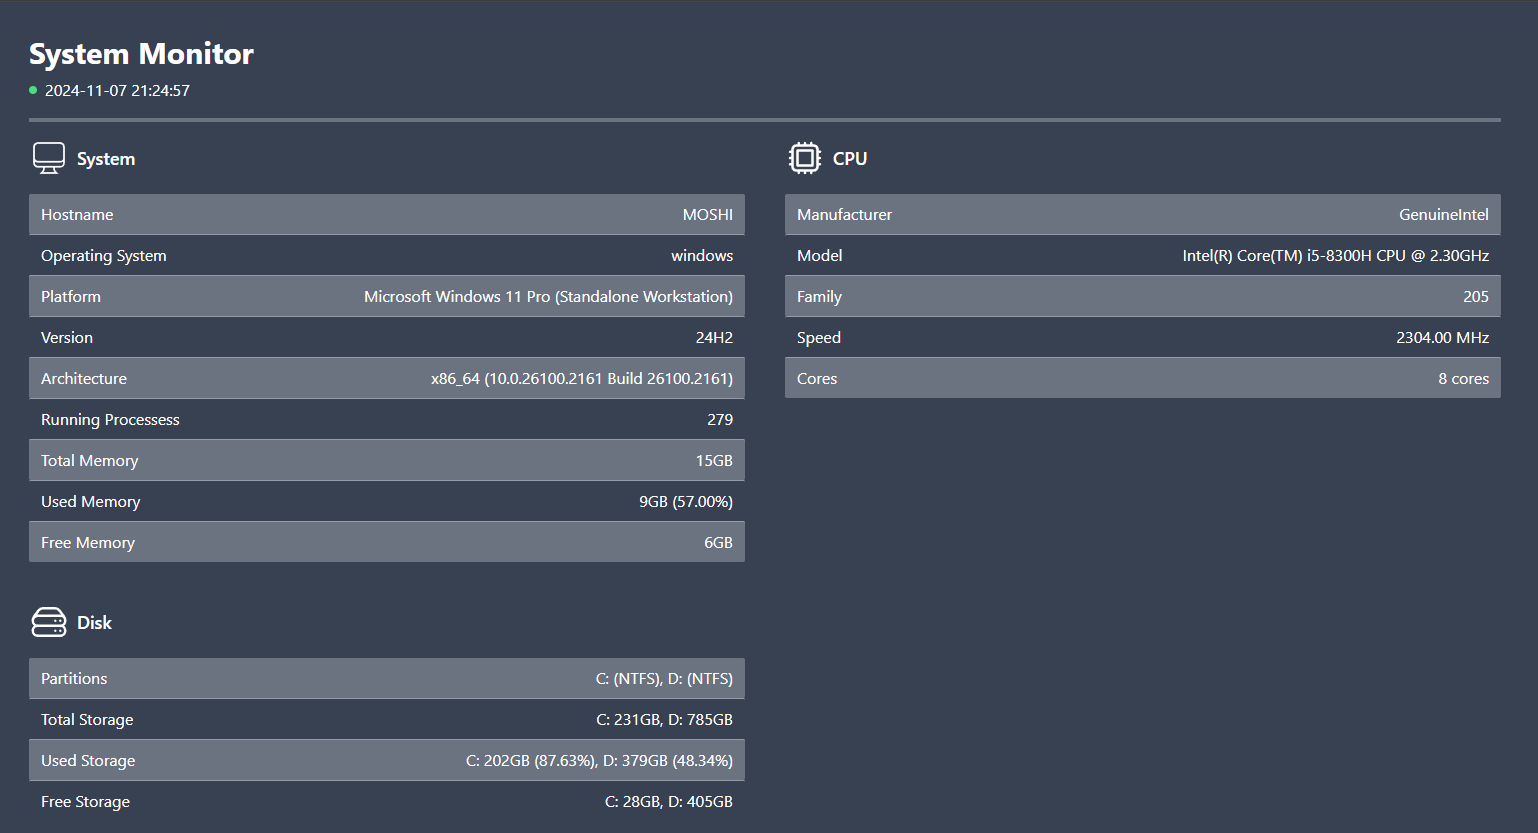
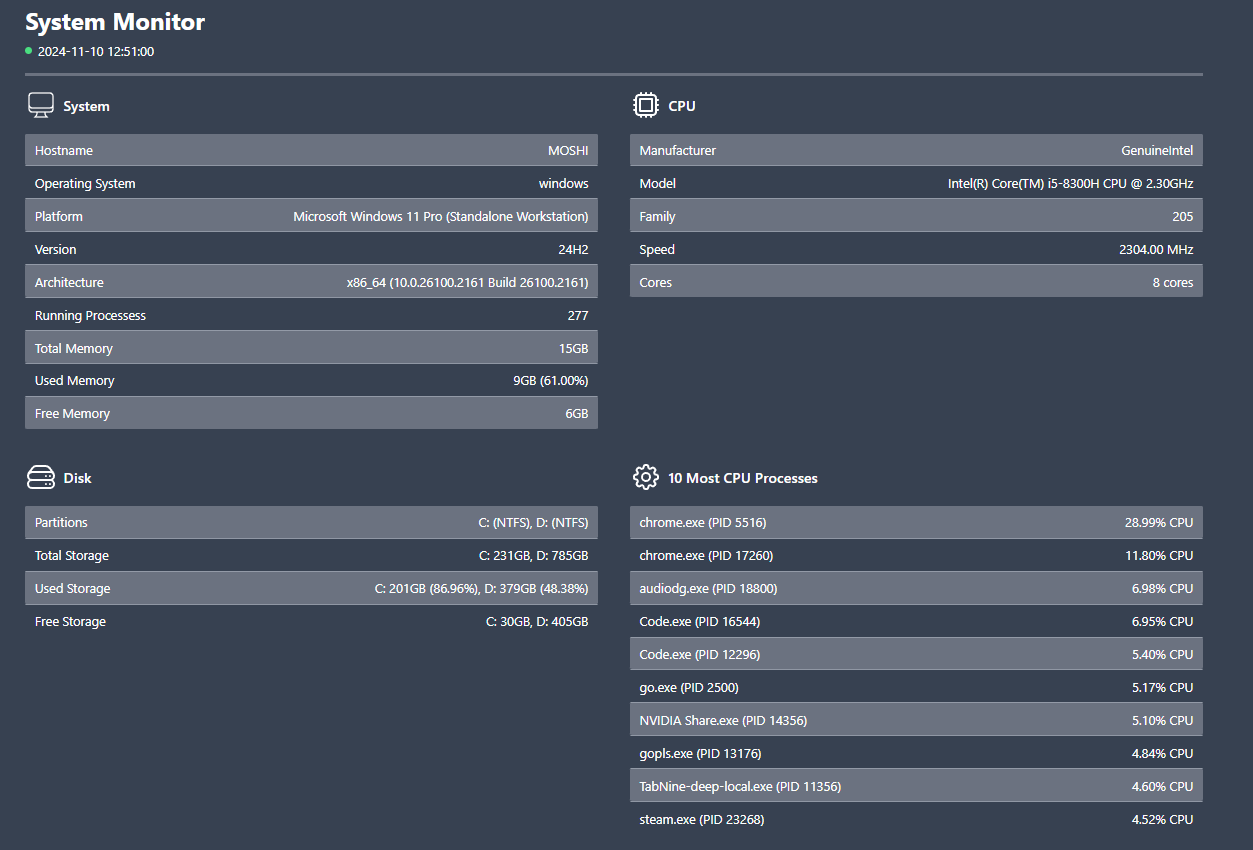
add processess CPU consumption

diff --git a/views/index.html b/views/index.html
@@ -114,6 +114,18 @@
                   </li>
                 </ul>
             </div>
+            <div>
+              <div class="flex flex-row items-center">
+                <svg xmlns="http://www.w3.org/2000/svg" fill="none" viewBox="0 0 24 24" stroke-width="1.5" stroke="currentColor" class="size-10">
+                  <path stroke-linecap="round" stroke-linejoin="round" d="M10.343 3.94c.09-.542.56-.94 1.11-.94h1.093c.55 0 1.02.398 1.11.94l.149.894c.07.424.384.764.78.93.398.164.855.142 1.205-.108l.737-.527a1.125 1.125 0 0 1 1.45.12l.773.774c.39.389.44 1.002.12 1.45l-.527.737c-.25.35-.272.806-.107 1.204.165.397.505.71.93.78l.893.15c.543.09.94.559.94 1.109v1.094c0 .55-.397 1.02-.94 1.11l-.894.149c-.424.07-.764.383-.929.78-.165.398-.143.854.107 1.204l.527.738c.32.447.269 1.06-.12 1.45l-.774.773a1.125 1.125 0 0 1-1.449.12l-.738-.527c-.35-.25-.806-.272-1.203-.107-.398.165-.71.505-.781.929l-.149.894c-.09.542-.56.94-1.11.94h-1.094c-.55 0-1.019-.398-1.11-.94l-.148-.894c-.071-.424-.384-.764-.781-.93-.398-.164-.854-.142-1.204.108l-.738.527c-.447.32-1.06.269-1.45-.12l-.773-.774a1.125 1.125 0 0 1-.12-1.45l.527-.737c.25-.35.272-.806.108-1.204-.165-.397-.506-.71-.93-.78l-.894-.15c-.542-.09-.94-.56-.94-1.109v-1.094c0-.55.398-1.02.94-1.11l.894-.149c.424-.07.765-.383.93-.78.165-.398.143-.854-.108-1.204l-.526-.738a1.125 1.125 0 0 1 .12-1.45l.773-.773a1.125 1.125 0 0 1 1.45-.12l.737.527c.35.25.807.272 1.204.107.397-.165.71-.505.78-.929l.15-.894Z" />
+                  <path stroke-linecap="round" stroke-linejoin="round" d="M15 12a3 3 0 1 1-6 0 3 3 0 0 1 6 0Z" />
+                </svg>                                             
+                <span class="ml-2 text-lg font-medium">10 Most CPU Processes</span>
+              </div>
+              <ul class="mt-4 divide-y divide-gray-400" id="processess">
+                
+              </ul>
+            </div>
         </div>
     </div>
     <script src="https://unpkg.com/htmx.org@2.0.3" integrity="sha384-0895/pl2MU10Hqc6jd4RvrthNlDiE9U1tWmX7WRESftEDRosgxNsQG/Ze9YMRzHq" crossorigin="anonymous"></script>

diff --git a/cmd/main.go b/cmd/main.go
@@ -5,6 +5,7 @@ import (
 	"log"
 	"net/http"
 	"os"
+	"sort"
 	"strconv"
 	"time"
 
@@ -15,6 +16,7 @@ import (
 	"github.com/shirou/gopsutil/v4/disk"
 	"github.com/shirou/gopsutil/v4/host"
 	"github.com/shirou/gopsutil/v4/mem"
+	"github.com/shirou/gopsutil/v4/process"
 )
 
 func main() {
@@ -83,6 +85,29 @@ func main() {
 				}
 			}
 
+			processess, _ := process.Processes()
+			sort.Slice(processess, func(i, j int) bool {
+				p1, _ := processess[i].CPUPercent()
+				p2, _ := processess[j].CPUPercent()
+				return p1 > p2
+			})
+
+			processessRow := ""
+			for i := 0; i < 10; i++ {
+				n, _ := processess[i].Name()
+				cp, _ := processess[i].CPUPercent()
+				rowColor := ""
+				if i%2 == 0 {
+					rowColor = "bg-gray-500"
+				}
+				processessRow += fmt.Sprintf(`
+                <li class="flex justify-between gap-x-4 py-1 rounded-sm %s">
+                    <span class="mx-2 p-1">%s (PID %d)</span>
+                    <span class="mx-2 p-1">%.2f%% CPU</span>
+                </li>
+                `, rowColor, n, processess[i].Pid, cp)
+			}
+
 			timestamp := time.Now().Format("2006-01-02 15:04:05")
 			html := `
 			<span hx-swap-oob="innerHTML:#data-timestamp">` + timestamp + `</span>
@@ -100,6 +125,7 @@ func main() {
 			<span hx-swap-oob="innerHTML:#disk-total-storage">` + totalStorage + `</span>
 			<span hx-swap-oob="innerHTML:#disk-usage">` + usedStorage + `</span>
 			<span hx-swap-oob="innerHTML:#disk-free">` + freeStorage + `</span>
+			<span hx-swap-oob="innerHTML:#processess">` + processessRow + `</span>
 			`
 			s.Broadcast([]byte(html))
 			time.Sleep(time.Second * 3)
